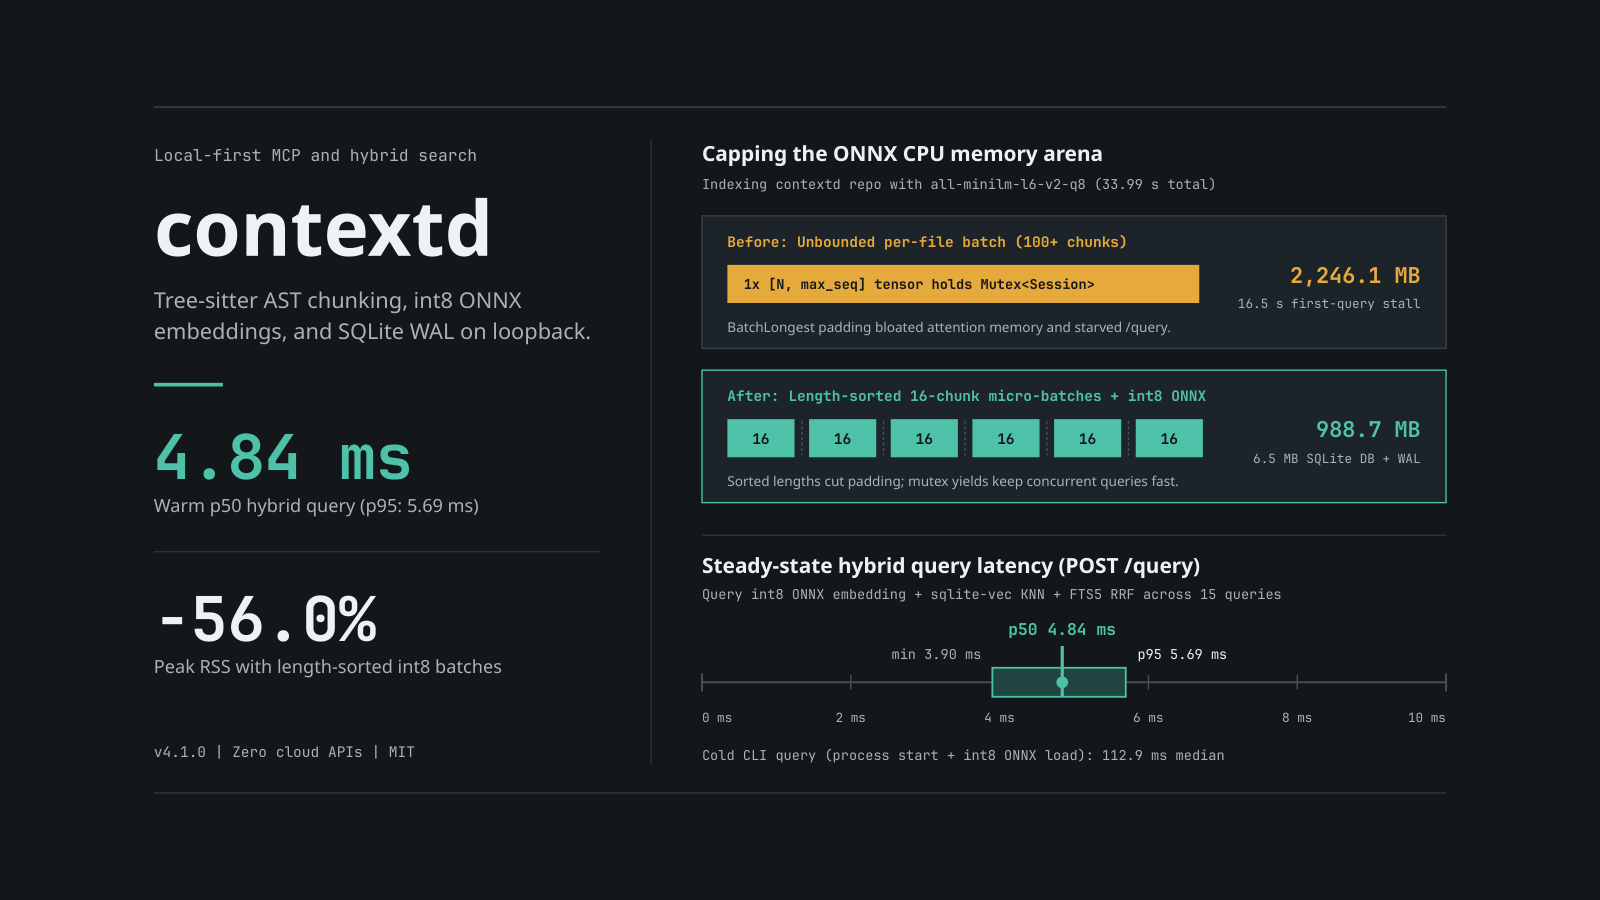
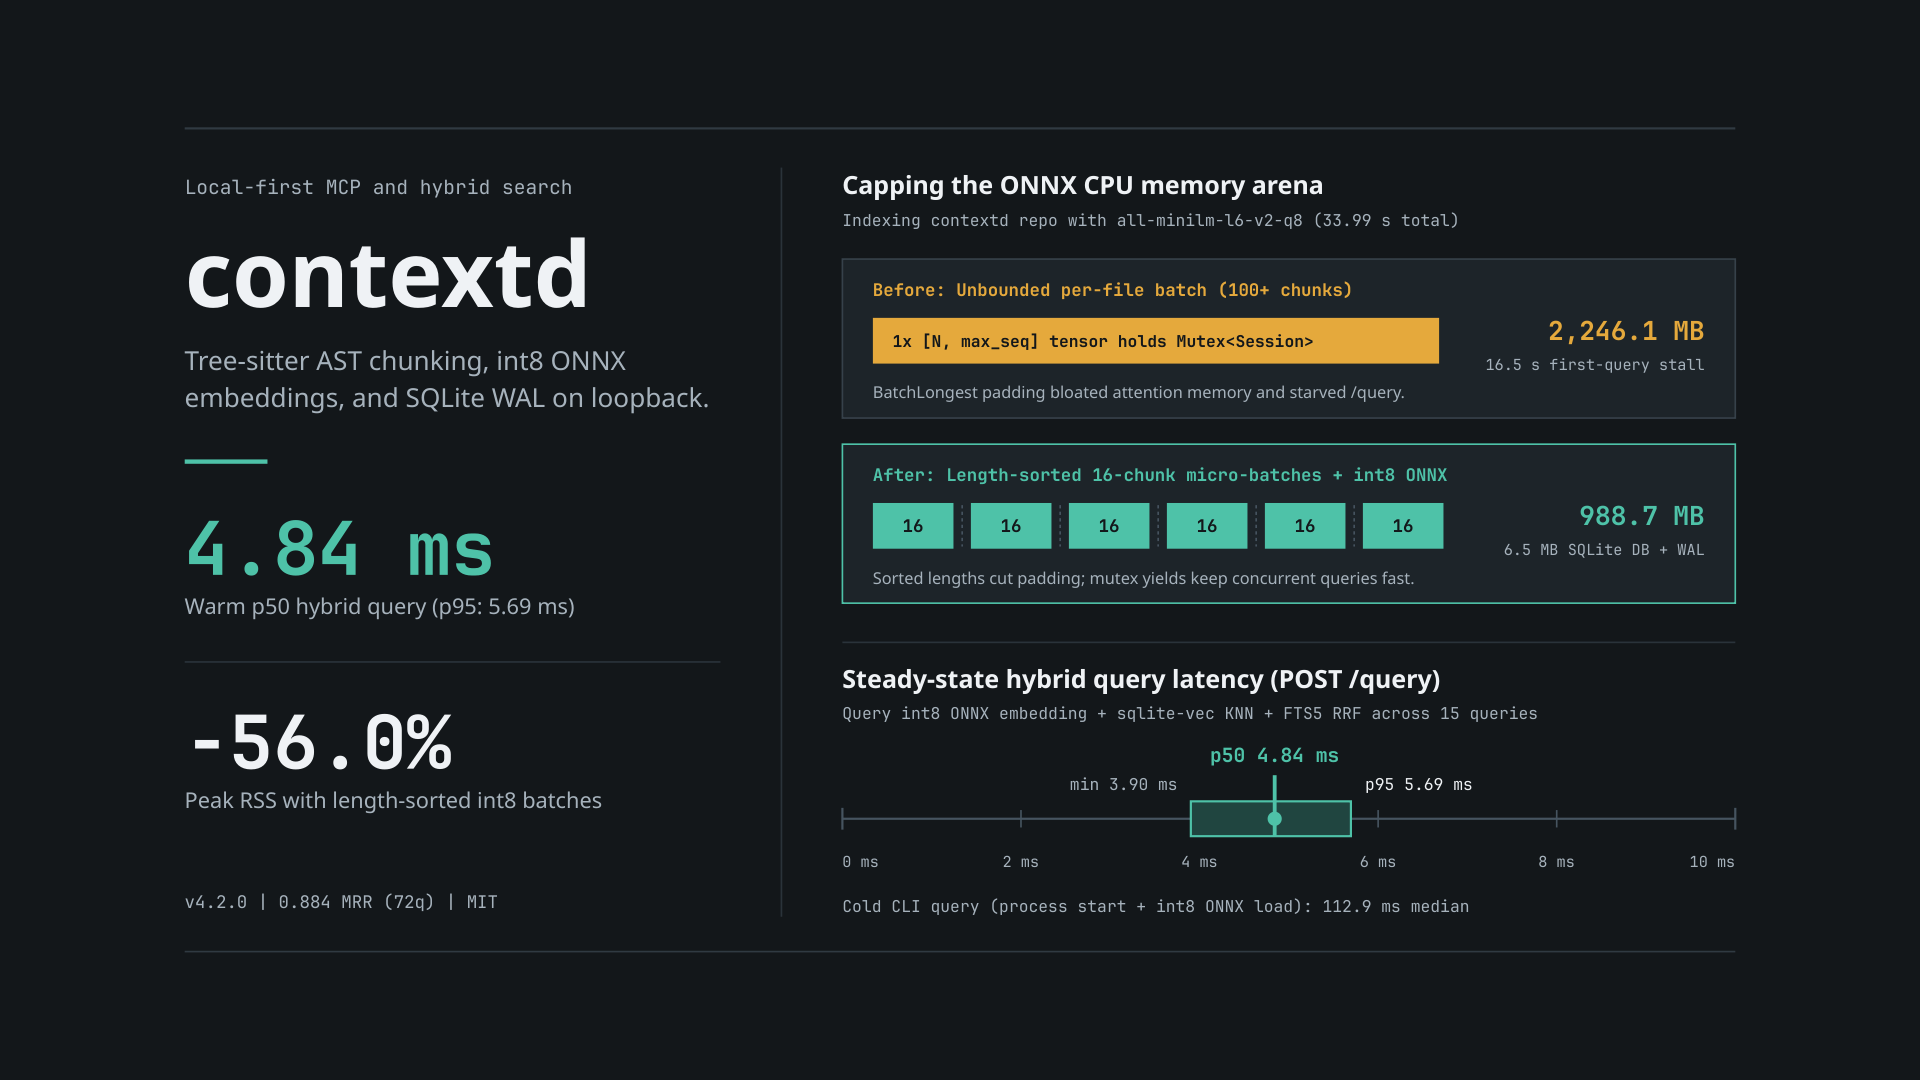
docs: update blog for deltalens v2.2.0, contextd v4.2.0, and shard v2.5.2

diff --git a/build.py b/build.py
@@ -565,10 +565,10 @@ def build_home(posts: list[Post]) -> str:
           <div class="tool-row">
             <div>
               <h3 class="tool-name"><a href="https://github.com/sandy-sachin7/deltalens">deltalens</a></h3>
-              <div class="tool-ver">Rust / v2.1.0 / MIT</div>
+              <div class="tool-ver">Rust / v2.2.0 / MIT</div>
             </div>
             <div>
-              <p class="tool-desc">Read-only CLI and library to inspect, diff, trace, and CI-gate Delta Lake tables directly from _delta_log/ across local disk, S3, GCS, and Azure ADLS, with delta-rs differential conformance tests and strict reader feature checks.</p>
+              <p class="tool-desc">Read-only CLI and library to inspect, diff, trace, and CI-gate Delta Lake tables directly from _delta_log/ across local disk, S3, GCS, and Azure ADLS, verified against all 19 Apache Spark DAT tables, delta-rs differential tests, and 4 continuous fuzz targets.</p>
               <div class="tool-links">
                 <a href="https://github.com/sandy-sachin7/deltalens">Source</a>
                 <a href="https://sandy-sachin7.github.io/deltalens/">Benchmarks</a>
@@ -581,26 +581,26 @@ def build_home(posts: list[Post]) -> str:
           <div class="tool-row">
             <div>
               <h3 class="tool-name"><a href="https://github.com/sandy-sachin7/contextd">contextd</a></h3>
-              <div class="tool-ver">Rust / v4.1.0 / MIT</div>
+              <div class="tool-ver">Rust / v4.2.0 / MIT</div>
             </div>
             <div>
-              <p class="tool-desc">Local-first semantic search and MCP daemon using Tree-sitter AST chunking, int8 or FP32 ONNX Runtime embeddings, and SQLite WAL (sqlite-vec plus FTS5) with loopback hardening and atomic index rollback.</p>
+              <p class="tool-desc">Local-first semantic search and MCP daemon using method-level Tree-sitter AST chunking, path-contextualized int8 or FP32 ONNX embeddings, and Stage-2 hybrid reranking over SQLite WAL (sqlite-vec plus FTS5) with loopback hardening.</p>
               <div class="tool-links">
                 <a href="https://github.com/sandy-sachin7/contextd">Source</a>
                 <a href="https://sandy-sachin7.github.io/contextd/">Docs</a>
                 <a href="https://crates.io/crates/contextd">Crates.io</a>
               </div>
             </div>
-            <div class="tool-metric">4.84 ms p50 hybrid query (int8)<br>33.99 s repo index / 1.000 R@10</div>
+            <div class="tool-metric">0.884 MRR / 0.896 nDCG@10 (72q)<br>4.84 ms p50 query / 989 MB RSS</div>
           </div>
 
           <div class="tool-row">
             <div>
               <h3 class="tool-name"><a href="https://github.com/sandy-sachin7/shard">shard</a></h3>
-              <div class="tool-ver">Rust + PyO3 / v2.5.0 / MIT</div>
+              <div class="tool-ver">Rust + PyO3 / v2.5.2 / MIT</div>
             </div>
             <div>
-              <p class="tool-desc">Content-addressed, Ed25519-signed version control and libp2p sync for ML artifacts using FastCDC content-defined chunking, Blake3, AES-256-GCM envelopes, and transactional staged checkout.</p>
+              <p class="tool-desc">Content-addressed, Ed25519-signed version control and libp2p sync for ML artifacts using FastCDC content-defined chunking, Blake3, AES-256-GCM envelopes, and a durable crash-atomic checkout journal with automatic recovery.</p>
               <div class="tool-links">
                 <a href="https://github.com/sandy-sachin7/shard">Source</a>
                 <a href="https://sandy-sachin7.github.io/shard/">Docs</a>

diff --git a/content/posts/2026-11-25-contextd-onnx-batch-memory-spike.md b/content/posts/2026-11-25-contextd-onnx-batch-memory-spike.md
@@ -4,14 +4,14 @@ slug: "contextd-onnx-batch-memory-spike"
 date: "2026-11-25"
 kind: "Engineering"
 tags: "Rust, Local AI, Benchmarks"
-summary: "Micro-benchmarks on 100 synthetic chunks hid a 2.25 GB RAM spike and a 16.5-second query stall in contextd. Here is how an end-to-end codebase benchmark caught it, the micro-batch fix, and the v4.1.0 int8 and retrieval eval numbers."
-read_time: "6 min"
+summary: "Micro-benchmarks on 100 synthetic chunks hid a 2.25 GB RAM spike and a 16.5-second query stall in contextd. Here is how an end-to-end codebase benchmark caught it, the micro-batch fix, the v4.1.0 int8 numbers, and the v4.2.0 retrieval changes that beat ripgrep across 72 queries in 3 repos."
+read_time: "7 min"
 metric: "2.25 GB -> 989 MB"
-metric_note: "Peak indexing RSS dropped from 2,246.1 MB to 988.7 MB in v4.1.0 (int8), with initial repo indexing down to 33.99 s and steady-state hybrid queries at 4.84 ms p50."
+metric_note: "Peak indexing RSS dropped from 2,246.1 MB to 988.7 MB in v4.1.0 (int8), warm queries run at 4.84 ms p50, and v4.2.0 hybrid retrieval reaches 0.884 MRR and 0.896 nDCG@10 across 72 queries in 3 repos (vs 0.750 / 0.786 for ripgrep)."
 repo_url: "https://github.com/sandy-sachin7/contextd"
 featured: "false"
 poster: "/assets/contextd-poster.png"
-poster_alt: "contextd v4.1.0 benchmark plate: length-sorted 16-chunk micro-batching and int8 ONNX drop peak indexing RSS from 2,246.1 MB to 988.7 MB, with warm hybrid queries at 4.84 ms p50 and 5.69 ms p95."
+poster_alt: "contextd v4.2.0 benchmark plate: length-sorted 16-chunk micro-batching and int8 ONNX drop peak indexing RSS from 2,246.1 MB to 988.7 MB, with warm hybrid queries at 4.84 ms p50 and 5.69 ms p95."
 ---
 
 Criterion micro-benchmarks lie when they only measure small synthetic inputs.
@@ -103,7 +103,34 @@ Speed means little without retrieval quality numbers. Release `v4.1.0` checks in
 | `hybrid_rrf` (`recency=0, freq=0`) | 0.472 | 0.861 | **1.000** | 0.649 | 0.719 | 0.433 | 0.958 | 0.555 |
 | `hybrid_default` | 0.556 | 0.806 | 0.972 | 0.676 | 0.736 | 0.379 | **1.000** | 0.647 |
 
-The trade-off shows directly in that table. `hybrid_rrf` hits `1.000` Recall@10 (every expected file appears in the top 10, vs `0.917` for `ripgrep`) and `hybrid_default` hits `1.000` MRR on exact symbols, while `all-minilm-l6-v2-q8` stays within `0.005` MRR of FP32 (`0.676` vs `0.681`). `ripgrep` still leads top-1 MRR (`0.793` vs `0.676`) when `README.md`, `CHANGELOG.md`, and `docs/` are indexed alongside `src/`, because general-text MiniLM scores prose documentation ahead of Rust source chunks. Pass `--paths src/` or `--file-types rs` for code-only queries.
+The trade-off showed directly in that `v4.1.0` table. `hybrid_rrf` reached `1.000` Recall@10, while `ripgrep` still led top-1 MRR (`0.793` vs `0.676`) whenever `README.md`, `CHANGELOG.md`, and `docs/` were indexed alongside `src/`.
+
+## v4.2.0 update: fixing hybrid ranking across three repositories
+
+Shipping `v4.1.0` with an honest retrieval table made the ranking bugs obvious. Four root causes held hybrid search behind `ripgrep`:
+
+1. Large Rust `impl` and `mod` blocks were embedded as one coarse chunk instead of individual methods.
+2. Chunk embeddings omitted the file path, and BAAI BGE models ran without their query instruction prefix.
+3. FTS5 indexed raw chunk text only, so `camelCase` and `snake_case` identifiers and file paths did not split cleanly into searchable tokens.
+4. General-text MiniLM scored prose changelogs and docs ahead of source files, and recency or frequency boosts could reorder tie-broken matches.
+
+Release `v4.2.0` addresses each of those four causes in `src/indexer/chunker.rs`, `src/indexer/embeddings.rs`, `src/daemon.rs`, and `src/storage/db.rs`:
+
+- **Method-level Rust AST chunking.** Large `impl_item` and `mod_item` nodes split into individual `function_item` chunks while keeping byte offsets exact.
+- **Path-contextualized embeddings and query prefixing.** Embeddings prepend the repository-relative file path at index time without mutating stored `chunks.content`, and `TextEmbedder::embed_query` applies the BGE query prefix where the model expects it.
+- **Identifier-split FTS5 documents.** FTS5 indexes the tail file path alongside `camelCase` and `snake_case` split identifier tokens, paired with matching query expansion.
+- **Stage-2 hybrid reranking.** `search_chunks_hybrid` runs pure cosine KNN before RRF (`k = 40`), then reranks with candidate-set IDF-weighted distinct term coverage, exact identifier and definition-site (`fn`, `struct`, `enum`, `trait`, `class`, `def`) bonuses, path alignment, a source-over-changelog/docs structural prior, deterministic unclamped sorting (`score DESC, id ASC`), and per-file diversity dampening (`0.80^k`).
+
+To make sure those changes did not overfit `contextd`, `v4.2.0` adds uncontaminated query sets for two unseen Rust repositories ([eval/deltalens_queries.json](https://github.com/sandy-sachin7/contextd/blob/main/eval/deltalens_queries.json) and [eval/shard_queries.json](https://github.com/sandy-sachin7/contextd/blob/main/eval/shard_queries.json)) alongside `contextd` ([eval/contextd_queries.json](https://github.com/sandy-sachin7/contextd/blob/main/eval/contextd_queries.json)), for 72 queries total using `all-minilm-l6-v2-q8` (raw JSON reports checked in as [results-q8.json](https://github.com/sandy-sachin7/contextd/blob/main/eval/results-q8.json), [results-deltalens-q8.json](https://github.com/sandy-sachin7/contextd/blob/main/eval/results-deltalens-q8.json), and [results-shard-q8.json](https://github.com/sandy-sachin7/contextd/blob/main/eval/results-shard-q8.json)):
+
+| Repository | `ripgrep` MRR / nDCG@10 | `fts_only` MRR / nDCG@10 | `vector_only` MRR / nDCG@10 | `hybrid_default` MRR / nDCG@10 |
+| :--- | :--- | :--- | :--- | :--- |
+| `contextd` (36 queries, 992 chunks, 25.66 s index) | 0.793 / 0.816 | 0.736 / 0.798 | 0.728 / 0.762 | **0.851 / 0.861** |
+| `deltalens` (18 queries, unseen, 843 chunks, 26.75 s) | 0.698 / 0.748 | 0.764 / 0.812 | 0.889 / 0.901 | **0.931 / 0.952** |
+| `shard` (18 queries, unseen, 1,604 chunks, 37.94 s) | 0.715 / 0.762 | 0.739 / 0.789 | 0.831 / 0.859 | **0.903 / 0.911** |
+| **Weighted average (72 queries)** | **0.750 / 0.786** | **0.744 / 0.799** | **0.794 / 0.821** | **0.884 / 0.896** |
+
+Across all 72 queries, `hybrid_default` beats `ripgrep`, `fts_only`, and `vector_only` on every repository. On natural-language semantic queries specifically, weighted average Semantic MRR rises from `0.560` (`ripgrep`) to `0.838` (`hybrid_default`), hitting `1.000` Semantic MRR on both unseen repositories.
 
 Reproduce both benchmarks on any repository:
 

diff --git a/content/posts/2026-11-25-shard-zstd-weights-and-rabin-cdc.md b/content/posts/2026-11-25-shard-zstd-weights-and-rabin-cdc.md
@@ -63,9 +63,24 @@ That result sets clear boundaries for where chunk-level deduplication pays off:
 - **Full fine-tuning breaks chunk dedup completely.** Even a `1e-4` gradient step flips bits across every weight tensor, so every chunk hash misses (`0.0%` savings).
 - **Partial updates and LoRA/adapter workflows deduplicate cleanly.** When 90% of the backbone stays frozen, FastCDC stores `6.52 MiB` (`89.0%` dedup). When a new tensor or metadata block shifts offsets in front of frozen layers, fixed chunking drops to `0.0%` while FastCDC recovers `54.5%`.
 
-Release `v2.5.0` also makes multi-file `shard checkout` transactional: every target file is staged and verified before persisting, and any mid-checkout write error restores backed-up files rather than leaving a half-checked-out tree.
+## Durable crash-atomic checkout journal (v2.5.1 and v2.5.2)
 
-Run both scripts on your own disk:
+Release `v2.5.0` added staged multi-file `shard checkout`, yet a closer review showed that staging alone was not crash-atomic. A backup failure on file 2 after file 1 was already replaced, a failure while updating `HEAD`, or a process kill mid-swap could still leave a half-updated working tree, and rollback ignored restore errors.
+
+Release `v2.5.1` replaces that path with a journaled checkout in `core/src/repo.rs` backed by `.shard/checkout_journal.json`:
+
+1. Stage and hash-verify every manifest into same-directory temp files before touching any target.
+2. Copy every existing target file to a `.shardbak` backup and `sync_all()` each backup before mutating the working tree.
+3. Atomically persist and fsync `.shard/checkout_journal.json` in phase `Swapping`.
+4. Swap staged files into place and fsync parent directories.
+5. Persist the journal in phase `UpdatingHead`, then update `HEAD` atomically.
+6. Remove backup files and delete the journal only after `HEAD` is durable.
+
+If a swap or `HEAD` update fails, rollback restores every replaced file via idempotent copy-and-replace from the durable backups, restores `HEAD`, surfaces any restore error through `ShardError::CheckoutRollbackFailed`, and keeps `.shard/checkout_journal.json` on disk so `shard recover` can retry. Running `shard recover` (or any subsequent `add`, `commit`, or `checkout`) replays an interrupted journal automatically, rolling back `Swapping` journals and rolling forward `UpdatingHead` journals.
+
+Six deterministic boundary fault-injection tests in [tests/resilience.rs](https://github.com/sandy-sachin7/shard/blob/main/tests/resilience.rs) exercise failures during backup creation, mid-swap, `HEAD` update, simulated mid-swap crash, simulated `UpdatingHead` crash, and corrupt-backup rollback error propagation. Release `v2.5.2` opens backup files with write access (`OpenOptions::new().write(true)`) before `sync_all()` so Windows `FlushFileBuffers` succeeds without `os error 5`, verified across Linux, macOS, and Windows CI.
+
+Run both benchmark scripts on your own disk:
 
 ```bash
 git clone https://github.com/sandy-sachin7/shard.git

diff --git a/content/posts/2026-11-25-deltalens-50k-files-111ms.md b/content/posts/2026-11-25-deltalens-50k-files-111ms.md
@@ -119,6 +119,14 @@ Fast metadata replay only helps if the replay matches the Delta Lake specificati
 - **Spec-compliant typeWidening rules.** Schema diffing now treats `date` to `timestamp` as breaking, permits `date` to `timestamp_ntz`, allows integer-to-double and bounded integer-to-decimal widenings (`byte`, `short`, `integer`, `long` to `decimal(p, s)` with integral digits at least `3`, `5`, `10`, and `19`), and allows scale-preserving decimal widening.
 - **Parser fuzzing and live S3 HTTP CI.** Four `cargo-fuzz` targets under `fuzz/` exercise NDJSON actions, schema JSON, table paths, and V2 sidecar parsing. Integration tests in `tests/cloud_s3.rs` run in GitHub Actions against an ephemeral Moto S3 HTTP server via `scripts/run_s3_test.py`.
 
+## What shipped in v2.2.0: Apache Spark DAT conformance and continuous fuzzing
+
+Comparing against `delta-rs` alone leaves open whether a parser matches tables written by Apache Spark itself. Release `v2.2.0` adds official Spark conformance tests, scheduled fuzzing in CI, and an opt-in live cloud workflow:
+
+- **Official Apache Spark DAT suite (`delta-incubator/dat v0.0.3`).** [scripts/dat_test.py](https://github.com/sandy-sachin7/deltalens/blob/main/scripts/dat_test.py) downloads the SHA-256 pinned `delta-incubator/dat v0.0.3` release archive (`19c045bc...`) and validates all 19 Spark-written Delta tables across 29 expected snapshots (both `latest` and historical versions `v0`, `v1`, and `v2`). All 19 tables and 29 snapshots pass in the `spark-dat` GitHub Actions job on every push.
+- **Continuous parser fuzzing in CI.** Checked-in seed corpora under `fuzz/corpus/` drive all four targets (`commit_ndjson`, `last_checkpoint`, `parquet_checkpoint`, `schema_json`) in [.github/workflows/fuzz.yml](https://github.com/sandy-sachin7/deltalens/blob/main/.github/workflows/fuzz.yml) on a weekly schedule, on parser pull requests, and on manual dispatch.
+- **Opt-in live cloud check.** [.github/workflows/cloud-live.yml](https://github.com/sandy-sachin7/deltalens/blob/main/.github/workflows/cloud-live.yml) runs `deltalens inspect` against live S3, GCS, or Azure ADLS buckets via `workflow_dispatch` when credentials are supplied.
+
 ## Wiring it into CI in five lines
 
 DeltaLens ships a composite GitHub Action with SHA-256 binary verification. Breaking schema changes (column removal, Column Mapping renames, narrowing type conversions, or tightened nullability) exit with code `2` and post a report to `$GITHUB_STEP_SUMMARY`.
@@ -131,4 +139,4 @@ DeltaLens ships a composite GitHub Action with SHA-256 binary verification. Brea
     args: --v1 ${{ env.PREV_VER }} --v2 ${{ env.CURR_VER }} --fail-on-breaking
 ```
 
-Install `v2.1.0` with `cargo install deltalens` (or `--no-default-features` for a pure-local build with zero HTTP dependencies).
+Install `v2.2.0` with `cargo install deltalens` (or `--no-default-features` for a pure-local build with zero HTTP dependencies).

diff --git a/assets/contextd-poster.hype.md b/assets/contextd-poster.hype.md
@@ -40,7 +40,7 @@ color_yellow: "#E5A93C"
   <text x="88" y="696" font-family="Noto Sans" font-size="20" fill="var(--dark-foreground)">Peak RSS with length-sorted int8 batches</text>
 
   <!-- Colophon -->
-  <text x="88" y="788" font-family="JetBrainsMono Nerd Font" font-size="16" fill="var(--dark-foreground)">v4.1.0  |  Zero cloud APIs  |  MIT</text>
+  <text x="88" y="788" font-family="JetBrainsMono Nerd Font" font-size="16" fill="var(--dark-foreground)">v4.2.0  |  0.884 MRR (72q)  |  MIT</text>
 
   <!-- Right column: Panel A - ONNX Micro-Batch Fix -->
   <text x="692" y="132" font-family="Noto Sans" font-size="23" font-weight="700" fill="var(--foreground)">Capping the ONNX CPU memory arena</text>
